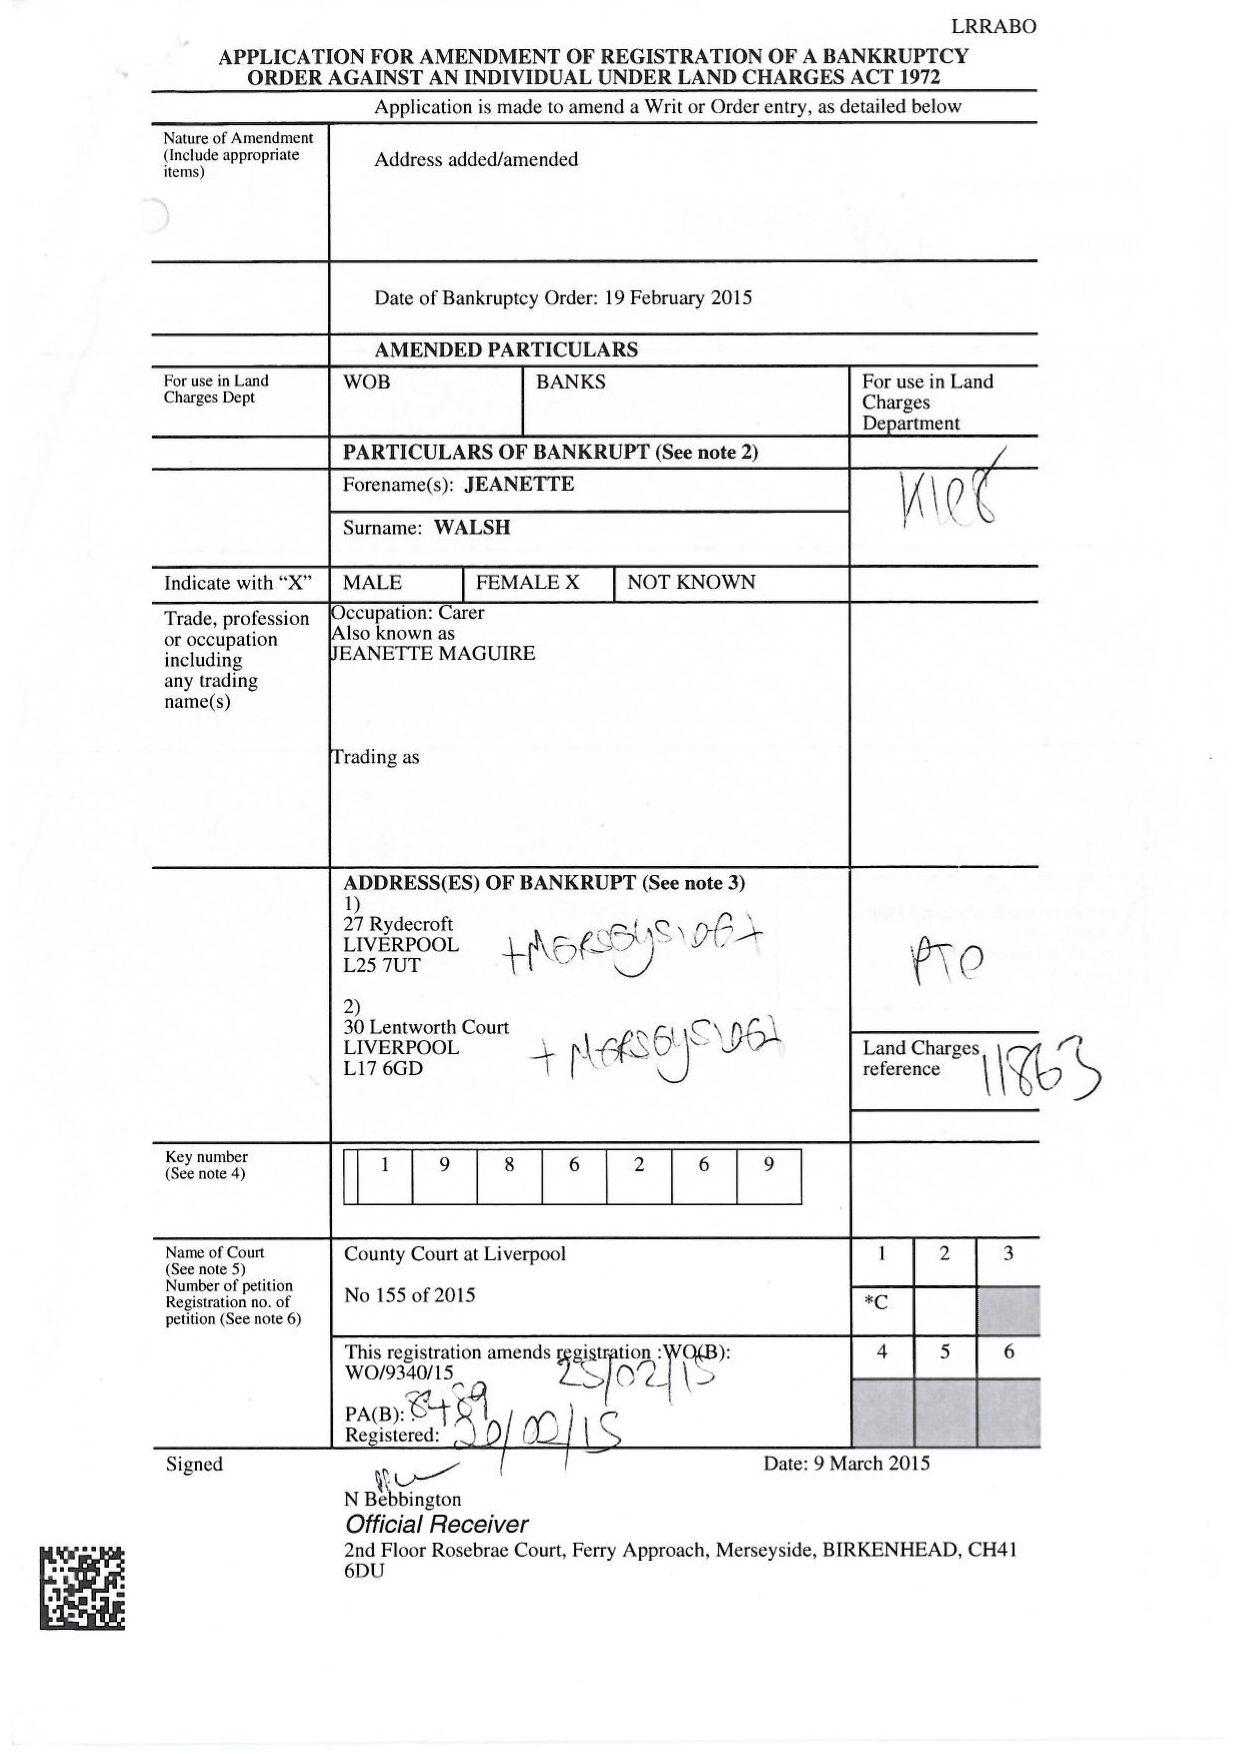
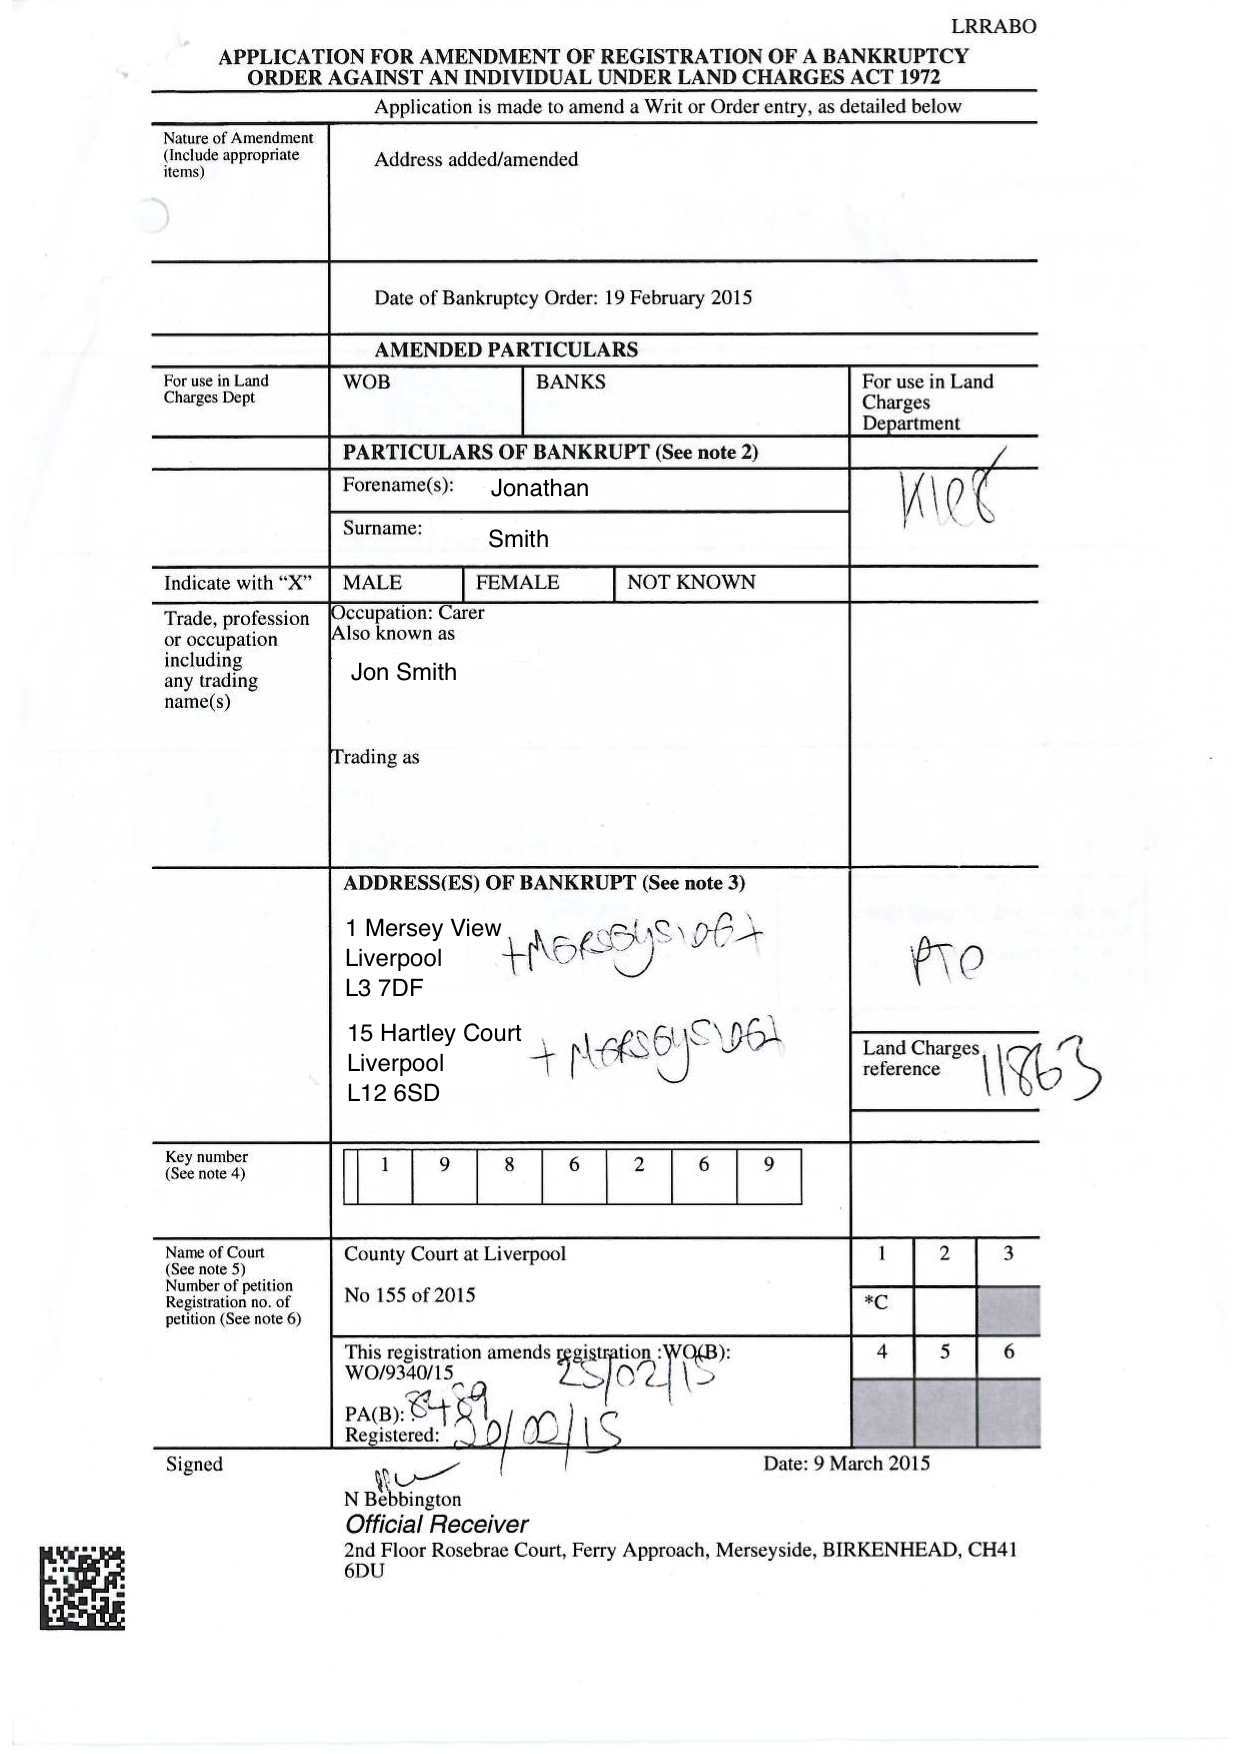
amendments

diff --git a/s5_prototypes/approve_amend.html b/s5_prototypes/approve_amend.html
@@ -1,0 +1,122 @@
+---
+layout: default
+title: Bankruptcy Search
+permalink: /approve_amend/
+---
+
+      <div class="row">
+        <h2 style="color: green">Bankruptcy amendment</h2>
+        
+        <ul class="breadcrumb" style="margin-left:0px">
+	  	<li><a href="{{ site.baseurl }}/">Bankruptcy home</a> </li>
+	  	<li><a href="/pending_amend">Pending amendments</a> </li>
+	  	<li class="active">Approve amendment</li>
+		</ul>
+      </div>
+<div class="row">	
+<div id="inputpanel" class="col-md-5">
+<h3>Check, amend and approve</h3>
+<h4 style="margin: 40px 0px;">Capture details</h4>		
+<form name="amendform"  >           
+    <div class="input-group">
+  			<label class="input-group-addon" style="width:160px" id="nature">Name</label>
+  			<input type="text" class="form-control" aria-describedby="nature" style="font-weight: bold; width:300px; " value="Jonathan Smith">
+	</div>
+	<div class="input-group">
+  			<label class="input-group-addon" style="width:160px" id="nature">Also known as</label>
+  			<input type="text" class="form-control" aria-describedby="nature" style="font-weight: bold; width:300px; "value="Jon Smith">
+	</div>
+	<div class="input-group" style="margin-top: 10px">
+  			<label class="input-group-addon" style="width:160px" id="nature">Occupation</label>
+  			<input type="text" class="form-control" aria-describedby="nature" style="font-weight: bold; width:300px; "value="Carer">
+	</div>
+	<div class="input-group">
+  			<label class="input-group-addon" style="width:160px" id="nature">Trading name</label>
+  			<input type="text" class="form-control" aria-describedby="nature" style="font-weight: bold; width:300px; "value="">
+	</div>
+	<div class="input-group" style="margin-top: 10px">
+  			<label class="input-group-addon" style="width:160px" id="nature">Address 1</label>
+  			<input type="text" class="form-control" aria-describedby="nature" style="font-weight: bold; width:300px; "value="1 Mersey View, Liverpool L3 7DF">
+	</div>
+    <div class="input-group">
+  			<label class="input-group-addon" style="width:160px" id="nature">County 1</label>
+  			<input type="text" class="form-control" aria-describedby="nature" style="font-weight: bold; width:300px; "value="Merseyside">
+	</div>
+	<div class="input-group">
+  			<label class="input-group-addon" style="width:160px" id="nature">Address 2</label>
+  			<input type="text" class="form-control" aria-describedby="nature" style="font-weight: bold; width:300px; "value="15 Hartley Court, Liverpool L12 6SD">
+	</div>
+    <div class="input-group">
+  			<label class="input-group-addon" style="width:160px" id="nature">County 2</label>
+  			<input type="text" class="form-control" aria-describedby="nature" style="font-weight: bold; width:300px; "value="Merseyside">
+	</div>
+	<div class="input-group">
+  			<label class="input-group-addon" style="width:160px" id="nature">Address 3</label>
+  			<input type="text" class="form-control" aria-describedby="nature" style="font-weight: bold; width:300px; "value="25 Hartley Court, Liverpool L12 6SD">
+	</div>
+    <div class="input-group">
+  			<label class="input-group-addon" style="width:160px" id="nature">County 3</label>
+  			<input type="text" class="form-control" aria-describedby="nature" style="font-weight: bold; width:300px; "value="Merseyside">
+	</div>
+	<div class="input-group" style="margin-top: 10px">
+  			<label class="input-group-addon" style="width:160px" id="nature">Court</label>
+  			<input type="text" class="form-control" aria-describedby="nature" style="font-weight: bold; width:300px; "value="County Court at Liverpool">
+	</div>
+    <div class="input-group">
+  			<label class="input-group-addon" style="width:160px" id="nature">Petition number</label>
+  			<input type="text" class="form-control" aria-describedby="nature" style="font-weight: bold; width:300px; "value="No 155 of 2015">
+	</div>
+	<div class="input-group" style="margin-top: 10px">
+  			<label class="input-group-addon" style="width:160px" id="nature">WO(B)</label>
+  			<input type="text" class="form-control" aria-describedby="nature" style="font-weight: bold; width:300px; "value="WO/9340/15">
+	</div>
+	<div class="input-group">
+  			<label class="input-group-addon" style="width:160px" id="nature">PA(B)</label>
+  			<input type="text" class="form-control" aria-describedby="nature" style="font-weight: bold; width:300px; "value="8489">
+	</div>
+      <div class="row" style="margin-top: 10px;">
+        	<input class="btn btn-success clearfix pull-right" type="button" value="Approve &raquo;" />
+        	<input onclick="document.querySelector('#flip-toggle').classList.toggle('flip');" class="btn btn-primary pull-right" style="margin-right: 5px" type="button" value="Flip form" />
+      </div>
+      
+      
+</form>
+</div>
+<div id="imgpanel" class="col-md-7">
+
+	<div class="col-md-12"><h3>Application form</h3></div>
+	
+	<div class="col-md-12 flip-container" style="width: 800px; height: 800px; overflow: auto" id="flip-toggle">
+		<div class="flipper">
+			<div class="front" >
+				<img class="image" src="/images/amend1.png" alt="application page 1">
+				<div class="pull-right">page 1</div>
+			</div>
+			<div class="back">
+				<img class="image" src="/images/amend2.png" alt="application page 2">
+				<div class="pull-right">page 2</div>
+			</div>
+		</div>
+	</div>
+	
+</div>
+ 
+ <script>
+ 	function checkpanel(panelname){
+ 		if (panelname == "name"){
+	 		if (document.getElementById('sname').value != "" & document.getElementById('fname').value != "") {
+	 			document.getElementById('nametick').style.display = "block";
+	 		} else {
+	 			document.getElementById('nametick').style.display = "none";
+	 		}
+	 	}
+	 	if (panelname == "occ"){
+	 		if (document.getElementById('occupation').value != "") {
+	 			document.getElementById('occtick').style.display = "block";
+	 		} else {
+	 			document.getElementById('occtick').style.display = "none";
+	 		}
+	 	}
+ 	}
+ </script>
+

diff --git a/s5_prototypes/pending_searches.html b/s5_prototypes/pending_searches.html
@@ -17,27 +17,27 @@ permalink: /pending_searches/
 		    <table id="resultsTable" class="table table-striped">
                 <thead>
                     <th class="col-sm-5">Recieved Date</thclass>
-                    <th class="col-sm-2" style="padding-left: 25px">Process</th>
+                    <th class="col-sm-2" style="padding-left: 25px">Capture</th>
                 </thead>
                     <tr>
                         <td>16/04/2015 07:30:01</td>
-                        <td align="center"><a href="/search"><i class="fa fa-folder-open"></i></a></td>
+                        <td align="center"><a href="/search"><i class="fa fa-folder-open fa-2x"></i></a></td>
                     </tr>
                     <tr>
                         <td>16/04/2015 07:35:43</td>
-                        <td align="center"><a href="/search"><i class="fa fa-folder-open"></i></a></td>
+                        <td align="center"><a href="/search"><i class="fa fa-folder-open fa-2x"></i></a></td>
                     </tr>
                     <tr>
                         <td>16/04/2015 08:01:14</td>
-                        <td align="center"><a href="/search"><i class="fa fa-folder-open"></i></a></td>
+                        <td align="center"><a href="/search"><i class="fa fa-folder-open fa-2x"></i></a></td>
                     </tr>
                     <tr>
                         <td>16/04/2015 08:10:58</td>
-                        <td align="center"><a href="/search"><i class="fa fa-folder-open"></i></a></td>
+                        <td align="center"><a href="/search"><i class="fa fa-folder-open fa-2x"></i></a></td>
                     </tr>
                     <tr>
                         <td>16/04/2015 08:12:25</td>
-                        <td align="center"><a href="/search"><i class="fa fa-folder-open"></i></a></td>
+                        <td align="center"><a href="/search"><i class="fa fa-folder-open fa-2x"></i></a></td>
                     </tr>
             </table>
 	    </div>

diff --git a/s5_prototypes/pending_amend.html b/s5_prototypes/pending_amend.html
@@ -23,13 +23,13 @@ permalink: /pending_amend/
                     <tr>
                         <td>16/04/2015 07:30:01</td>
                         <td><span class="btn btn-success btn-xs"><i class="fa fa-check-circle fa-2x"</i></span></td>
-                        <td><a href="/amend"<i class="fa fa-folder-open fa-2x"</i></a></td>
+                        <td><a href="/approve_amend"<i class="fa fa-folder-open fa-2x"</i></a></td>
                     </tr>	      
 		        
                     <tr>
                         <td>16/04/2015 07:35:43</td>
                         <td><span class="btn btn-success btn-xs"><i class="fa fa-check-circle fa-2x"</i></span></td>
-                        <td><a href="/amend"<i class="fa fa-folder-open fa-2x"</i></a></td>
+                        <td><a href="/approve_amend"<i class="fa fa-folder-open fa-2x"</i></a></td>
                     </tr>
                     <tr>
                         <td>16/04/2015 08:01:14</td>

diff --git a/s5_prototypes/amend.html b/s5_prototypes/amend.html
@@ -24,7 +24,7 @@ permalink: /amend/
                     <a data-toggle="collapse" id="amendname" data-parent="#accordion" href="#collapseOne">1. Name of bankrupt</a>
                 </h4><img id="nametick" style="display:none; width:25px; height: 25px; float:right; margin-top: -20px" src="/images/tick.png" />
             </div>
-            <div id="collapseOne" class="panel-collapse collapse in">
+            <div id="collapseOne" class="panel-collapse collapse">
             	<div class="panel-body">
                 	<div class="form-group">
                         <label>Forename</label>
